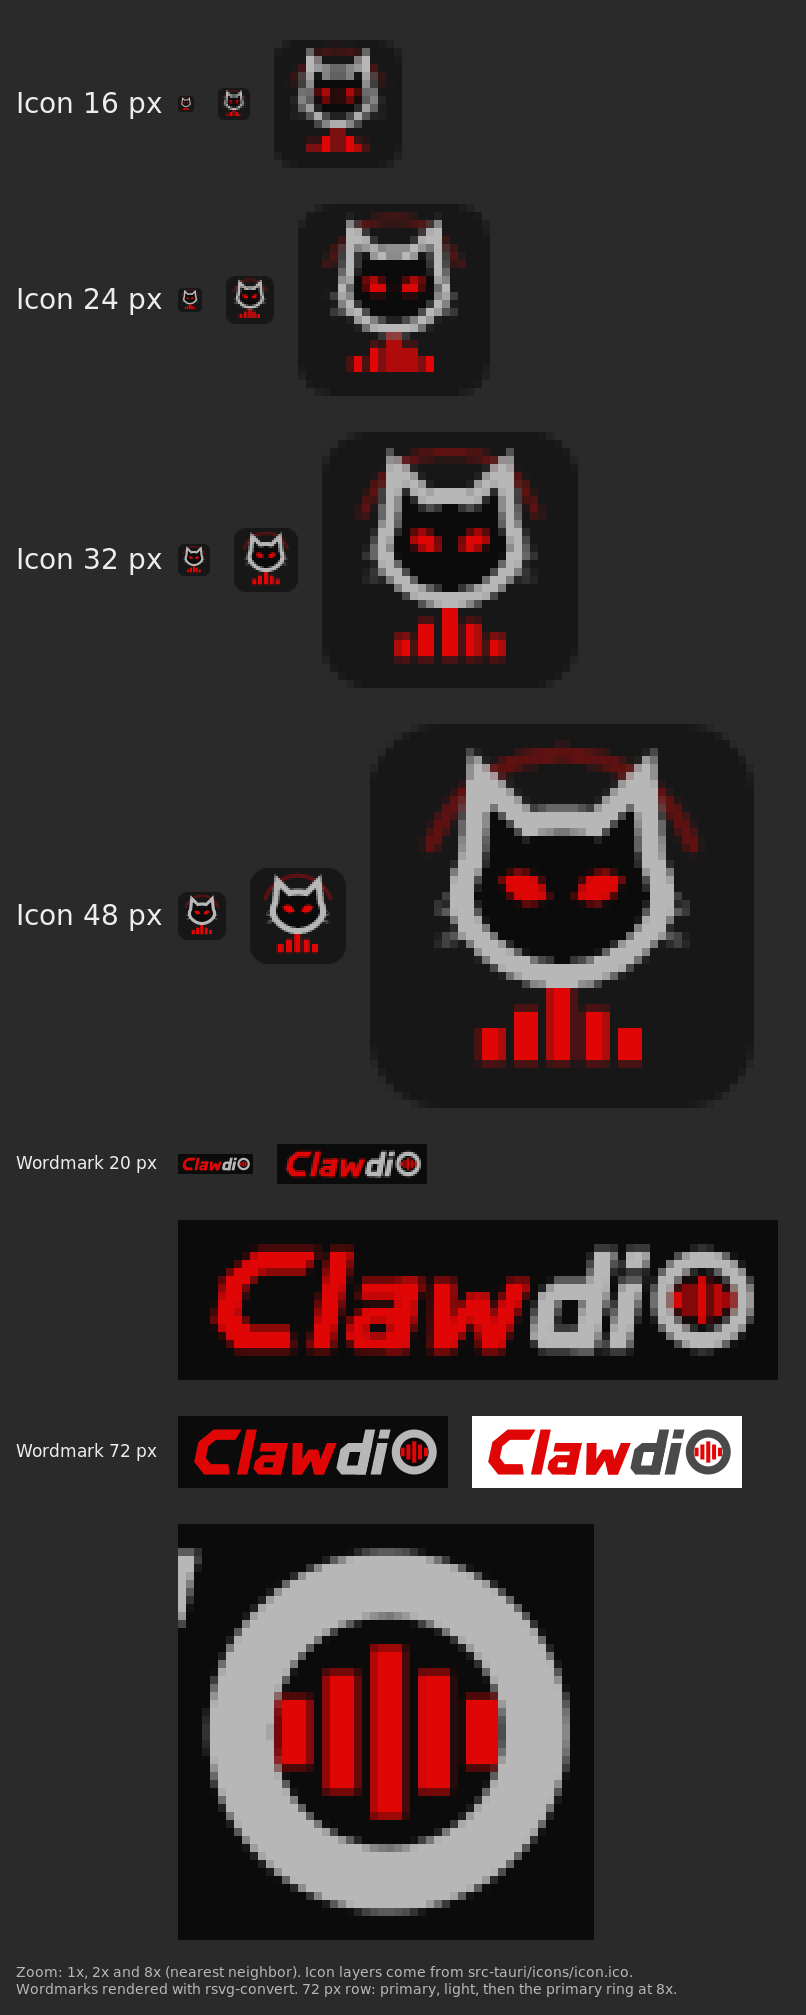
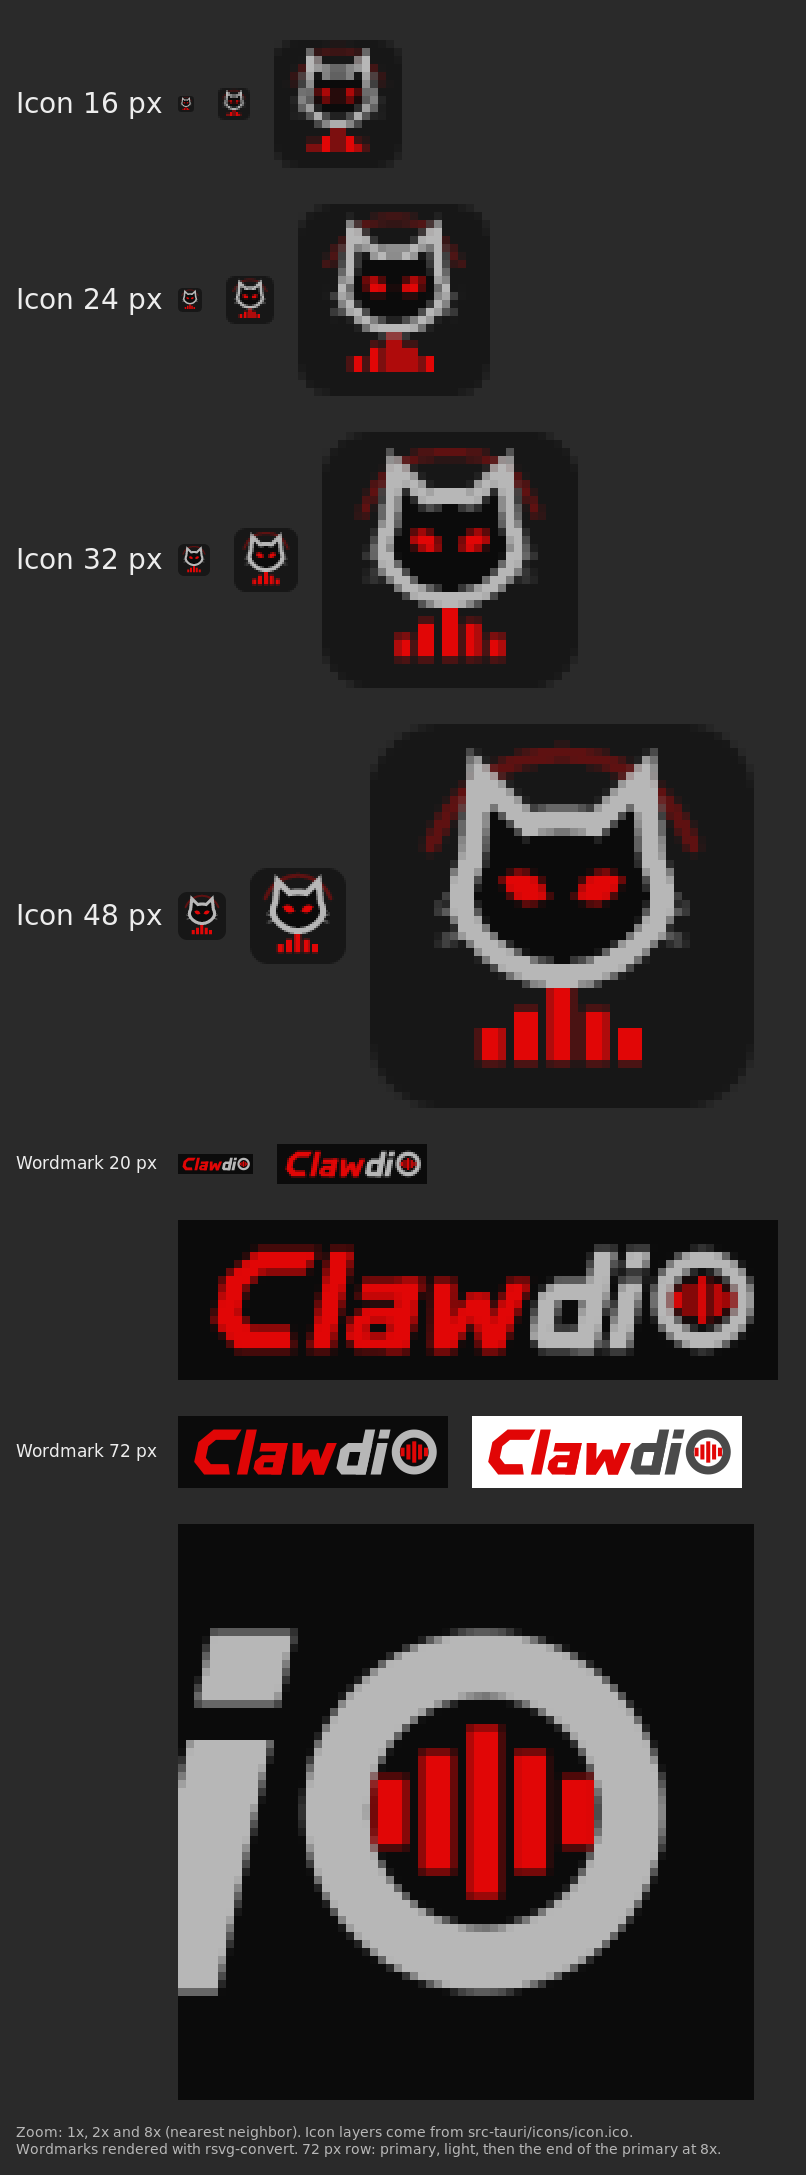
F-06, F-07, F-08, F-10: apply the approved follow-ups (plan 1.10)
- F-06: P0.15 states the row rule for state.redActive (worst surface).
- F-07: check:sources fails on Tailwind default palette colors in src/
  (classes such as bg-red-500 and variables such as --color-red-500). The
  palette names come from the installed tailwindcss/theme.css. D34 and the
  AGENTS.md project rule name it.
- F-08: :root sets color-scheme: dark (section 6.16).
- F-10: scripts/contact-sheet.sh (npm run contact-sheet) builds
  docs/images/icon-legibility.png. The 8x view of the 72 px wordmark crops
  the right end, so it finds the final "o" after a brand change.
- Docs: theming-and-brand.md (source guards, color scheme, contact sheet),
  plan and traceability 1.10, F-11 proposed.

Validation: npm run check (100 tests), cargo fmt, clippy, test, bindings
check, mdformat. Chromium with the release CSP: color-scheme dark, 0 CSP
violations. The contact sheet script reproduced the committed sheet pixel
for pixel before the crop fix.

TWO-PASS REVIEW: F1 0, F2 1, F3 1, F4 6.
- F2: the 72 px ring crop used fixed coordinates. Fixed (crop from the
  right end).
- F3: F-11 (named CSS colors and color functions are not guarded).
- F4: token classes such as bg-state-red-active do not match (tested).
- F4: the guard reads Tailwind from the script's own node_modules, so
  --root temp copies work.
- F4: 26 colors x 21 utilities per line is fast for this source size.
- F4: the contact sheet needs ImageMagick 6 and rsvg-convert: documented,
[…]

diff --git a/scripts/check-sources.test.ts b/scripts/check-sources.test.ts
@@ -1,7 +1,7 @@
 import { readFileSync } from "node:fs";
 import { join } from "node:path";
 import { describe, expect, it } from "vitest";
-import { checkSources, checkText, readProductName } from "./check-sources.mjs";
+import { checkSources, checkText, readPaletteNames, readProductName } from "./check-sources.mjs";
 import { REPO_ROOT, runScript, tempDir, writeFile } from "./test-helpers";
 
 const productName = readProductName(REPO_ROOT);
@@ -58,6 +58,44 @@ describe("check-sources", () => {
     const hits = (text: string) => checkText("src/a.ts", text, { productName }).length;
     expect(hits("#abc #abcd #aabbcc #aabbccdd")).toBe(4);
     expect(hits("#abcde #abcdefabc #defaultValue")).toBe(0);
+  });
+
+  it("reads the palette color names from the installed Tailwind theme", () => {
+    const names = readPaletteNames();
+    expect(names).toEqual(expect.arrayContaining(["black", "white", "red", "zinc", "neutral"]));
+    expect(names).not.toContain("bg");
+  });
+
+  it("fails when a file in src/ uses a Tailwind palette color class (F-07)", () => {
+    const text = 'const c = "bg-red-500 hover:text-white bg-black/50 ring-offset-zinc-900";';
+    expect(checkText("src/a.tsx", text, { productName }).map((v) => [v.rule, v.text])).toEqual([
+      ["palette-color", "bg-red-500"],
+      ["palette-color", "text-white"],
+      ["palette-color", "bg-black/50"],
+      ["palette-color", "ring-offset-zinc-900"],
+    ]);
+  });
+
+  it("fails when CSS in src/ applies a palette class or reads a palette variable (F-07)", () => {
+    const css = "a { @apply text-zinc-400; color: var(--color-red-500); }";
+    expect(checkText("src/a.css", css, { productName }).map((v) => v.text)).toEqual([
+      "text-zinc-400",
+      "--color-red-500",
+    ]);
+  });
+
+  it("allows token, semantic and keyword color classes", () => {
+    const text =
+      'const c = "bg-bg-canvas text-text-muted bg-state-red-active border-border ring-ring bg-primary " +\n' +
+      '  "text-foreground border-transparent fill-current bg-destructive/10 text-primary-foreground";';
+    expect(checkText("src/a.tsx", text, { productName })).toEqual([]);
+  });
+
+  it("checks palette colors only under src/ and names the rule in the message", () => {
+    expect(checkText("crates/core/src/a.rs", '// "bg-red-500"', { productName })).toEqual([]);
+    const run = runScript("check-sources.mjs", ["--root", fixtureRoot({ "src/x.tsx": 'const c = "text-white";\n' })]);
+    expect(run.status).toBe(1);
+    expect(run.stderr).toContain("src/x.tsx:1: palette color text-white");
   });
 
   it("fails with a message when tauri.conf.json has no productName", () => {

diff --git a/src/styles/globals.css b/src/styles/globals.css
@@ -8,6 +8,8 @@
 
 /* shadcn/ui semantic variables, mapped to token variables (build plan section 6.12, D10). */
 :root {
+  /* Native scrollbars and form controls follow the dark-only theme (F-08). */
+  color-scheme: dark;
   --background: var(--color-bg-canvas);
   --foreground: var(--color-text-primary);
   --card: var(--color-bg-surface);

diff --git a/docs/build-plan.md b/docs/build-plan.md
@@ -1,6 +1,6 @@
 # Clawdio Build Plan
 
-**Version:** 1.9, October 11, 2026 (owner sign-off of the brand and the B7 decision, section 13).
+**Version:** 1.10, October 11, 2026 (owner approval of F-06, F-07, F-08 and F-10, section 13).
 **Status:** In execution. Section 2 gives the phase status.
 **Scope:** Clawdio v1, as the source documents in section 3 define it.
 **Companion file:** `docs/requirements-traceability.md`. It maps each source requirement to a task, an acceptance criterion and a verification method.
@@ -111,7 +111,7 @@ Each phase adds one entry here when it ends: date, commit range, criteria result
 
 **Notes**
 
-- N1 (P0.15): the rule "Excluded pairs must stay below the threshold" fails for `state.redActive` on canvas (3.16) and surface (3.03). Section 6.12 lists that row as "3.16 to 2.70". The test applies the rule to the row as one role: its worst surface must stay below 3:1. Proposal F-06.
+- N1 (P0.15): the rule "Excluded pairs must stay below the threshold" fails for `state.redActive` on canvas (3.16) and surface (3.03). Section 6.12 lists that row as "3.16 to 2.70". The test applies the rule to the row as one role: its worst surface must stay below 3:1. The owner approved this wording as F-06 (plan 1.10).
 - N2 (P0.10): `shadcn init` downloads from `ui.shadcn.com`. The environment denied the host (B6) until the owner allowed it. The CLI asks for a preset, so the init ran with `-p nova` (Lucide, Geist). The token mapping replaced the generated colors, the chart and sidebar variables and the `.dark` block. `index.html` sets `class="dark"`, so shadcn dark styles apply in the dark-only app. `shadcn` and `tw-animate-css` are dev dependencies (build-time CSS).
 - N3 (P0.9): Geist is imported in `main.tsx` only. The init also added an import to `globals.css`. That copy was removed.
 - N4: jsdom is 29.1.1, because jsdom 30 needs Node 22.22.2 or later.
@@ -318,7 +318,7 @@ The sources leave these details open. The owner may change any of them. Section 
 | D31 | Tests: Vitest with React Testing Library. Playwright (Chromium and WebKit) against Vite with mocked IPC. axe-core. No `tauri-driver` (its README says pre-alpha). OS-level checks are manual. | Reliable automation now. Chromium is close to WebView2. WebKit is close to WebKitGTK. |
 | D32 | A decode error is any of: (a) a failure to open or probe a file; (b) an error that the engine's own Symphonia source reports while decoding: an I/O error other than end of stream, or more than 3 packet decode errors in a row (a single bad packet is skipped and logged); (c) an end of stream more than 2 s before a duration that the container states (WAV header, Ogg granule position, MP3 Xing, VBRI or LAME header). An estimated duration never triggers rule (c). The engine decodes with this source instead of `rodio::Decoder`, because `rodio::Decoder` hides errors and Symphonia reports a cut-off file as a normal end of stream. | R6 decode rule. Codex review finding X4. |
 | D33 | Window minimum 800 x 560, default 1200 x 800. Widget minimums (width x height): Library 320 x 240, Transport controls 320 x 88, Now playing 240 x 88, Playlists 200 x 160, Play queue 200 x 160, Lyrics 200 x 160. P3 may tune them and records the change. | Section 5 (window smaller than layout). |
-| D34 | Source guards: no hex color literals in `src/` (except the generated token file). No product name literal in `src/`, `crates/` or `src-tauri/src/`. SVG rules in P1.5. | design.md §10, section 6 branding constraint, AC-15. |
+| D34 | Source guards: no hex color literals in `src/` (except the generated token file). No Tailwind default palette color (a class such as `bg-red-500` or a variable such as `--color-red-500`) in `src/` (F-07). No product name literal in `src/`, `crates/` or `src-tauri/src/`. SVG rules in P1.5. | design.md §10, section 6 branding constraint, AC-15. |
 | D35 | Milestone 0 test data uses a `fixtures` Cargo feature. P6 deletes it. The owner confirmed this on October 11, 2026 (C19). | Spike data without dead code later. |
 | D36 | Test audio: tiny seed files made with ffmpeg and committed (under 100 KB). Test trees and the 50,000-track library are generated at test time. | No copyrighted audio. No large files in git. |
 | D37 | Windows release builds turn off WebView2 browser accelerator keys (find, reload, print, DevTools) through `ICoreWebView2Settings3`. Tauri 2.12 has no option for it. | Ctrl+F belongs to R25. F5 must not reload the app. |
@@ -442,7 +442,7 @@ assets/branding/ui-icons/ README.md (optional per-name icon overrides, R31)
 theme/tokens.json                                   (existing)
 docs/  build-plan.md  requirements-traceability.md  theming-and-brand.md
        file-formats.md  milestone-0.md  release-checklist.md  images/
-scripts/  build-tokens.mjs  check-sources.mjs  check-svg.mjs  icons.mjs
+scripts/  build-tokens.mjs  check-sources.mjs  check-svg.mjs  icons.mjs  contact-sheet.sh
           measure-memory.sh  measure-memory.ps1
 crates/clawdio-core/
   src/  lib.rs config.rs paths.rs settings.rs state.rs fold.rs cache.rs queue.rs
@@ -666,6 +666,7 @@ Uppercase spaced text is not used in the app UI (design.md §4).
 - **Not color alone:** active toggles add a dot and an icon change. The pressed Library mode and the active widget tab add a 2 px `text.primary` underline. Selected rows add a 2 px `text.primary` left bar. Highlighted menu items add a 2 px inset bar. The playing row adds an icon and a label. Missing playlist entries add an icon and the word "missing".
 - **Motion:** hover and focus 140 ms (`motion.fast`, also Tailwind's default transition duration), menus and dialogs 200 ms (`motion.panel`). No transitions on list rows, the seek bar or time labels. Under `prefers-reduced-motion: reduce`, a global rule sets every transition and animation duration to 0s and turns off smooth scrolling. Dockview's own CSS also honors the setting.
 - **Known gap:** Dockview splitters have no keyboard resize, in any edition. Moving widgets by keyboard is deferred (section 7 of the requirements). The menu covers show, hide, mode and layouts (R29 non-drag path).
+- **Color scheme:** `:root` sets `color-scheme: dark`, so native scrollbars and form controls match the dark-only theme (F-08).
 - **Windows high contrast:** `forced-colors: active` rules keep focus rings, selected rows and mask icons visible with system colors. P0.7 and P2.13 add them, P2-AC16 tests them and P17 audits them.
 - **Splitters and drop zones:** splitters show a resize cursor on hover and a 2 px line while dragging. Drop zones show the `bg.hover` overlay. Only the active target has the red border (design.md §6).
 
@@ -756,7 +757,7 @@ The standard checkpoint in section 1.3 applies to every phase. A phase checkpoin
 - **P0.12** Security baseline (D13). `app.security.csp` per section 6.13. If the Vite dev server fails under it, set `app.security.devCsp` to the same policy plus `ws://localhost:*` and `http://localhost:*` in `connect-src`. Check the release policy in a release build. Nonce handling per D48. `capabilities/default.json` grants `core:default` and nothing else. No fs, http, shell or dialog plugin. DevTools only in debug builds.
 - **P0.13** Disable WebView2 browser accelerator keys in release builds (D37). Module `src-tauri/src/webview2_keys.rs` (Windows only) uses `with_webview` and `ICoreWebView2Settings3::SetAreBrowserAcceleratorKeysEnabled(false)`.
 - **P0.14** Source guards. `scripts/check-sources.mjs` scans `*.ts`, `*.tsx`, `*.css` and `*.rs` files. It fails when: a hex color literal appears under `src/` (except `tokens.generated.css`); the product name appears, with the same letter case, under `src/`, `crates/` or `src-tauri/src/`. It reads the product name from `tauri.conf.json`. Lowercase crate and package names (`clawdio_core`) do not match.
-- **P0.15** Contrast test `src/styles/contrast.test.ts`. It reads `theme/tokens.json` and checks the role pairs in section 6.12 against WCAG 2.2 thresholds: text 4.5:1, large text and non-text 3:1. Pairs marked Excluded must stay below the threshold that the rule names, so a token change that makes them pass shows up for review.
+- **P0.15** Contrast test `src/styles/contrast.test.ts`. It reads `theme/tokens.json` and checks the role pairs in section 6.12 against WCAG 2.2 thresholds: text 4.5:1, large text and non-text 3:1. Pairs marked Excluded must stay below the threshold that the rule names, so a token change that makes them pass shows up for review. A row that names one role on several surfaces (the `state.redActive` row) stays excluded while its worst surface is below the threshold (F-06).
 - **P0.16** CI `.github/workflows/ci.yml`. Jobs: `frontend` (ubuntu-22.04: `npm ci`, `npm run check`); `rust` (matrix ubuntu-22.04 and windows-latest: install Linux packages from section 6.17, `cargo fmt --check`, `cargo clippy`, `cargo test`, the bindings check from section 1.2); `tauri-build` (matrix: Linux packages, `npm ci`, `npm run tauri build -- --debug --no-bundle`).
 - **P0.17** Docs. `docs/theming-and-brand.md` with the token table (token, CSS variable, UI role) and the contrast role table (R17). README section "Build from source" with prerequisites and commands.
 
@@ -1583,10 +1584,7 @@ Phases add items here under AGENTS.md class F3. Items are proposals only.
 | F-01 | Windows code signing | Fewer SmartScreen warnings (K16). No source requires it. | Planning |
 | F-02 | Keyboard resize and move of widgets | Dockview has no keyboard resize (K5). Requirements section 7 defers keyboard moves. | Planning |
 | F-04 | Remove the FUSE need of the AppImage | Users without FUSE 2 need a workaround (K11). | Planning |
-| F-06 | Change the P0.15 wording: an "Excluded" row that names one role on several surfaces (the `state.redActive` row) stays excluded while its worst surface is below the threshold. | Section 6.12 lists `state.redActive` at 3.16:1 on canvas and 3.03:1 on surface, so the per-pair rule fails P0-AC5. The test applies the row rule (P0 note N1). | P0 review |
-| F-07 | Add a source guard against Tailwind default palette classes (for example `bg-red-500` or `text-white`) in `src/`, or reset the default palette in `globals.css` and give the shadcn overlay color a token. | The hex guard (D34) does not catch palette classes, so a color from outside `theme/tokens.json` can enter the UI (design.md §10). | P0 review |
-| F-08 | Set `color-scheme: dark` on `:root` in `globals.css`. | Native scrollbars and form controls follow the color scheme. Without it they can render light in the dark-only app (DES-0). | P0 review |
-| F-10 | Commit a script that builds `docs/images/icon-legibility.png` from the generated icons. | The contact sheet must be rebuilt after each brand change (Q6 rounds, P17, P18.8). The P1 script was one-time (Edits rule 8). | P1 review |
+| F-11 | Extend the color guard to CSS named colors and color functions in `src/` (for example `color: white`, `style={{ color: "red" }}` or `rgb(0 0 0)`), with an exception for `color-mix()` over token variables. | The hex and palette rules (D34) do not catch them, so a color from outside `theme/tokens.json` can still enter the UI (design.md §10). | F-07 review |
 
 The deferred ideas in section 7 of the requirements are not repeated here. They stay deferred.
 
@@ -1718,6 +1716,7 @@ Result: 10 comments. 10 confirmed and fixed in 1.3.
 
 ## 13. Change log
 
+- **1.10 (October 11, 2026):** owner approved F-06, F-07 (as a source guard), F-08 and F-10. P0.15 states the row rule for `state.redActive`. D34 adds the Tailwind palette guard in `npm run check:sources`. Section 6.16 adds `color-scheme: dark`. `scripts/contact-sheet.sh` (`npm run contact-sheet`) builds the P1.7 contact sheet. The four proposals left section 11.
 - **1.9 (October 11, 2026):** owner signed off the brand after P1 (Q6 closed). Owner chose F-09 option (b) for B7: P1-AC4 checks wordmark bar separation at the 72 px README height, and the 20 px rule keeps only the bar width. F-09 left section 11.
 - **1.8 (October 11, 2026):** owner answered Q5 (supply the formats they have), Q6 (review after P1; P2 waits), Q7 (ask, then replace), Q8 (simple icon for 16 and 24 px only if needed), B5 (Windows machine only) and B2 (raise the target over 300 MB, new D49).
 - **1.7 (October 11, 2026):** owner approved F-05: P2.15 keeps all e2e mock code and data in `tests/e2e/`, and P2-AC19 checks it. Owner answered Q1: keep "Dr. Claw Development" and accept K7.

diff --git a/docs/theming-and-brand.md b/docs/theming-and-brand.md
@@ -17,6 +17,15 @@ The script stops with an error that names the key path when a key is missing or 
 
 Unknown keys cause a warning and are ignored.
 
+## Source guards
+
+`npm run check:sources` (part of `npm run check`) fails when a file under `src/` holds a color that does not come from the tokens:
+
+- A hex color literal, such as `#fff`. The generated token file is the only exception.
+- A Tailwind default palette color: a class such as `bg-red-500`, `text-white` or `bg-black/50`, or a variable such as `--color-red-500`. The palette names come from the installed Tailwind theme.
+
+Use token classes (`bg-bg-surface`, `text-text-muted`) or the shadcn/ui semantic classes (`bg-primary`, `text-foreground`). The same command fails on the product name in source code (plan decision D34).
+
 ## Token map
 
 | Token | CSS variable | UI roles |
@@ -94,6 +103,7 @@ The palette has pairs that fail WCAG 2.2 contrast. These rules (plan decision D1
 ## Focus, motion and high contrast
 
 - Focus: every interactive element shows a 2 px `brand.red` ring with a 2 px offset (`:focus-visible`).
+- Color scheme: `:root` sets `color-scheme: dark`, so native scrollbars and form controls are dark.
 - Motion: hover and focus transitions use `motion.fast`. Menus and dialogs use `motion.panel`.
 - Reduced motion: see `motion.reduced` above.
 - Windows high contrast (`forced-colors: active`): focus rings use `Highlight`. Selected rows (`aria-selected="true"`) use `Highlight` with `HighlightText`.
@@ -133,4 +143,4 @@ These files hold the brand (requirements R17, R31). A brand change replaces file
 4. `npm run dev` and `npm run build` run it first. It skips the work when every icon file is newer than the SVG.
 5. The generated files in `src-tauri/icons/` are committed, so `cargo` builds work without the Tauri CLI. After an icon change, commit them.
 
-To change the app icon, replace `clawdio-icon-full.svg`, run `npm run icons` (or any build) and commit the new files in `src-tauri/icons/`. `docs/images/icon-legibility.png` shows the icon at 16, 24, 32 and 48 px and the wordmark at the 20 px header height.
+To change the app icon, replace `clawdio-icon-full.svg`, run `npm run icons` (or any build) and commit the new files in `src-tauri/icons/`. `docs/images/icon-legibility.png` shows the icon at 16, 24, 32 and 48 px, the wordmark at the 20 px header height and at the 72 px README height. `npm run contact-sheet` (`scripts/contact-sheet.sh`) builds it again after a brand change. It runs on Linux and needs ImageMagick 6, `rsvg-convert` and the DejaVu Sans font.

diff --git a/AGENTS.md b/AGENTS.md
@@ -107,7 +107,7 @@ Clawdio rules. They add to the Agent Rules. The plan is `docs/build-plan.md`.
 
 - D14: the library index lives in Rust memory. SQLite is a rebuildable cache. The UI fetches rows for the visible window only.
 - D15: `ts-rs` writes the IPC types to `src/lib/ipc/bindings/` during `cargo test`. Commit them.
-- D34: no hex color literal in `src/` (except the generated token file). No product name literal in `src/`, `crates/` or `src-tauri/src/`.
+- D34: no hex color literal and no Tailwind default palette color in `src/` (except the generated token file). No product name literal in `src/`, `crates/` or `src-tauri/src/`.
 
 #### Coding standards
 

diff --git a/docs/requirements-traceability.md b/docs/requirements-traceability.md
@@ -1,7 +1,7 @@
 # Clawdio Requirements Traceability
 
-**Version:** 1.9, October 11, 2026.
-**Plan:** `docs/build-plan.md` v1.9. Task IDs (`P5.3`), criterion IDs (`P5-AC4`), decisions (`D`), conflicts (`C`), owner questions (`Q`), blockers (`B`) and risks (`K`) refer to that file.
+**Version:** 1.10, October 11, 2026.
+**Plan:** `docs/build-plan.md` v1.10. Task IDs (`P5.3`), criterion IDs (`P5-AC4`), decisions (`D`), conflicts (`C`), owner questions (`Q`), blockers (`B`) and risks (`K`) refer to that file.
 
 ## How to read this file
 
